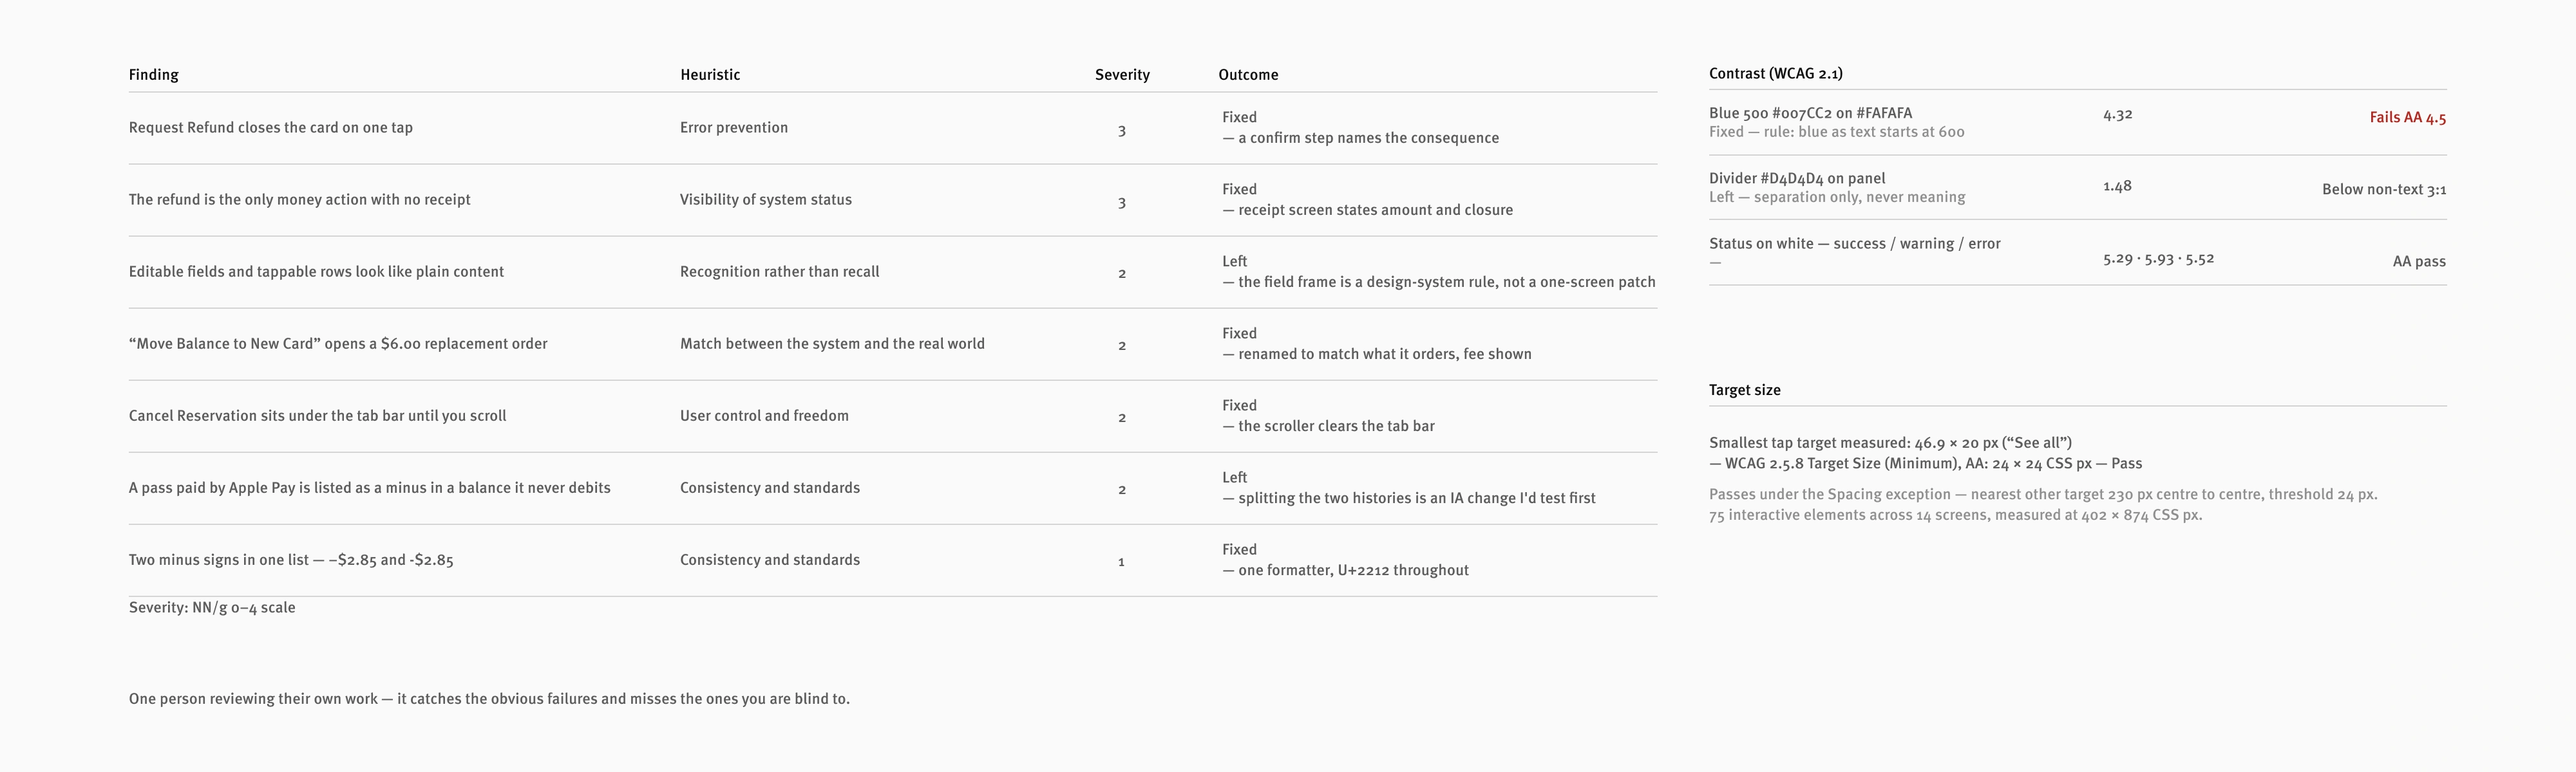
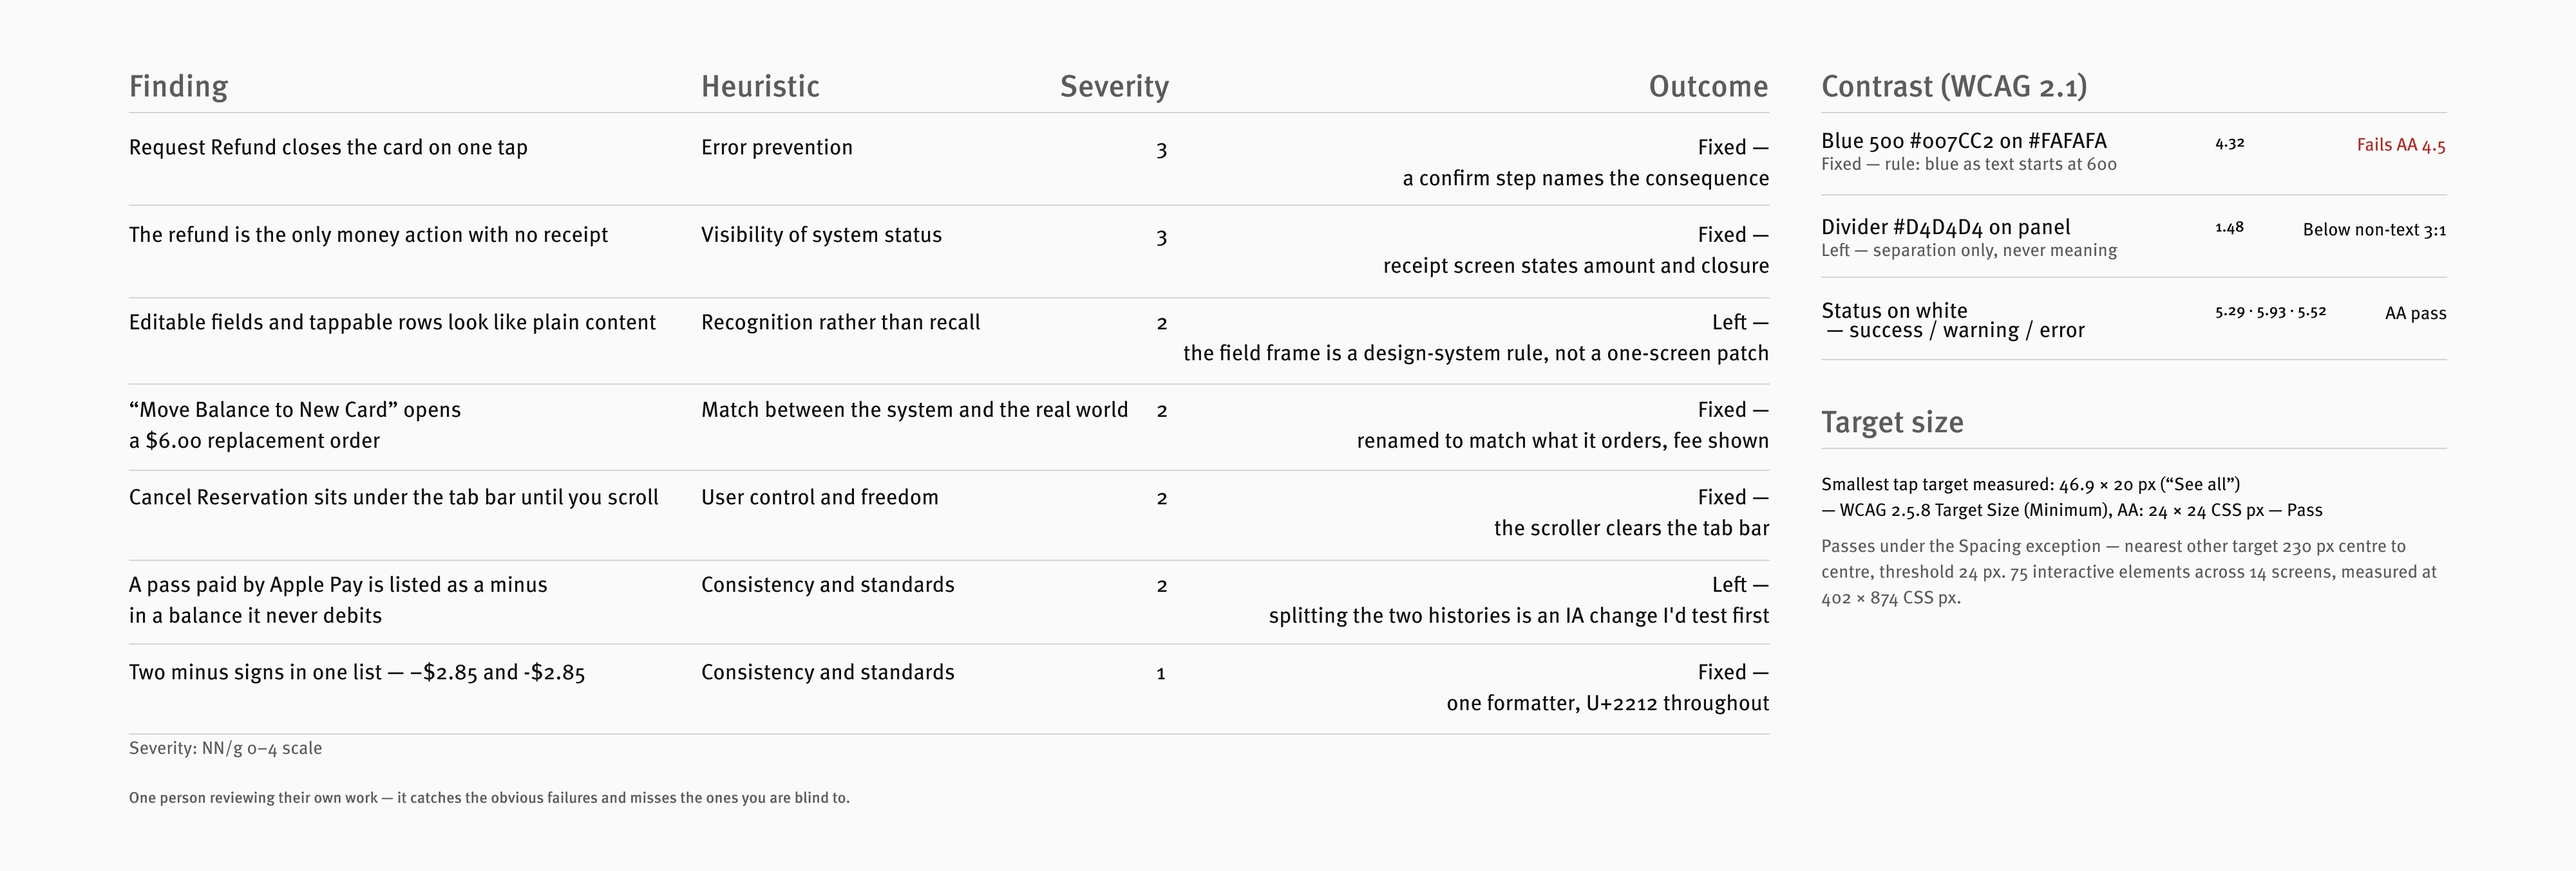
Only real carousels wear the scroller; the audit table re-exported
A two-screen row fits whole, so the carousel treatment — the scroller,
the bleed, the ink line — now applies only where a third screen exists
to scroll to. And the heuristics-and-audit figure takes the fresh
export, out of the demo directory and into the bundle as before.

diff --git a/site/src/styles/casestudy.css b/site/src/styles/casestudy.css
@@ -536,10 +536,11 @@
   gap: 12px;
 }
 /* Every phone screen in a solution row renders at one shared size — the
-   width of a before/after cell, so all the screens on the page match —
-   and a row with more than two becomes a carousel, scrolling inside its
-   own column. The wide (desktop-shot) rows keep their flexible sizing. */
-.cs-shots:not(.cs-shots--wide) {
+   width of a before/after cell, so all the screens on the page match.
+   Only a row with a THIRD screen becomes a carousel (a pair fits whole,
+   so it gets no scroller and no scrollbar), scrolling inside its own
+   column. The wide (desktop-shot) rows keep their flexible sizing. */
+.cs-shots:not(.cs-shots--wide):has(img:nth-child(3)) {
   overflow-x: auto;
   scroll-snap-type: x proximity;
   -webkit-overflow-scrolling: touch;
@@ -564,18 +565,18 @@
    -webkit path; Firefox has no 2px, so it gets its thin variant, scoped
    apart because Chrome ignores the -webkit path once the standard
    properties are set */
-.cs-shots:not(.cs-shots--wide)::-webkit-scrollbar {
+.cs-shots:not(.cs-shots--wide):has(img:nth-child(3))::-webkit-scrollbar {
   height: 2px;
 }
-.cs-shots:not(.cs-shots--wide)::-webkit-scrollbar-track {
+.cs-shots:not(.cs-shots--wide):has(img:nth-child(3))::-webkit-scrollbar-track {
   background: transparent;
 }
-.cs-shots:not(.cs-shots--wide)::-webkit-scrollbar-thumb {
+.cs-shots:not(.cs-shots--wide):has(img:nth-child(3))::-webkit-scrollbar-thumb {
   background: var(--text);
   border-radius: 0;
 }
 @supports not selector(::-webkit-scrollbar) {
-  .cs-shots:not(.cs-shots--wide) {
+  .cs-shots:not(.cs-shots--wide):has(img:nth-child(3)) {
     scrollbar-width: thin;
     scrollbar-color: var(--text) transparent;
   }
